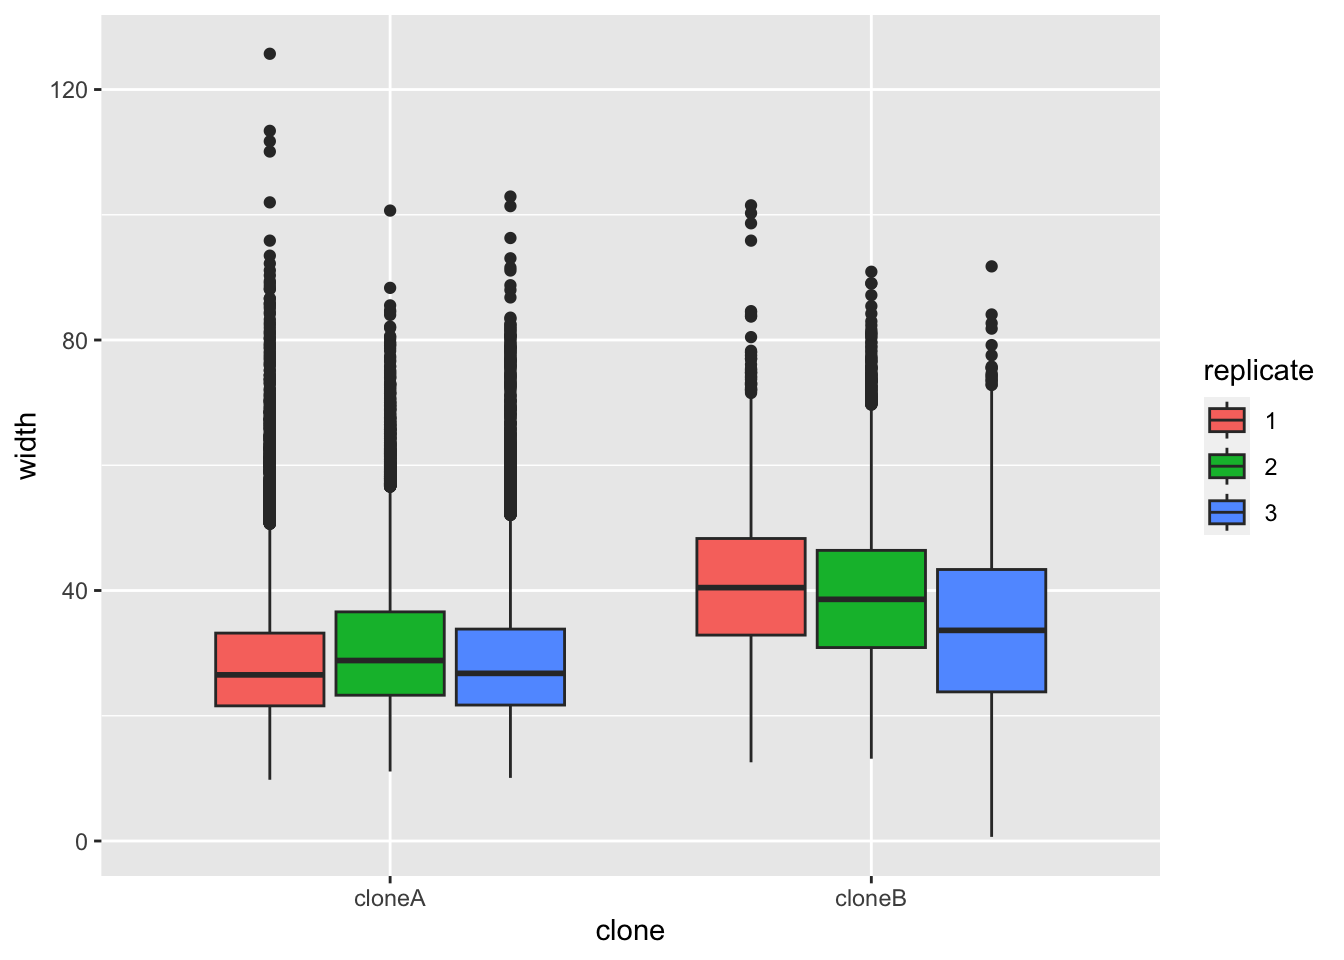
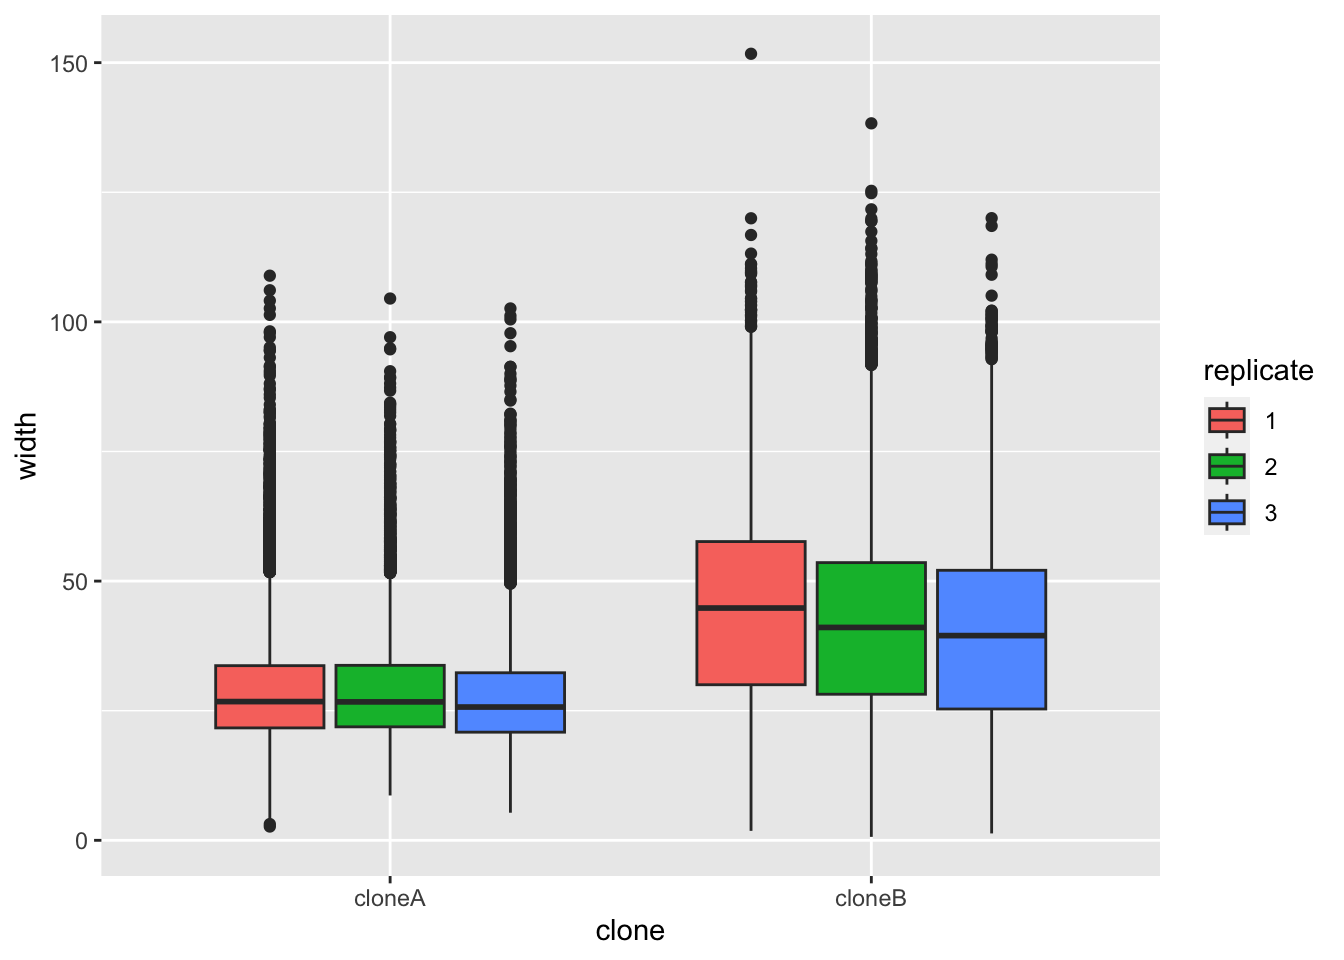
fix of index and w2

diff --git a/docs/workshop2.html b/docs/workshop2.html
@@ -6,7 +6,7 @@
 <meta name="viewport" content="width=device-width, initial-scale=1.0, user-scalable=yes">
 <meta name="author" content="Daniel Jeffares">
 <meta name="dcterms.date" content="2024-01-25">
-<title>BIO00066I - BIO00087H Workshop 1</title>
+<title>BIO00066I - BIO00066I Workshop 2</title>
 <style>
 code{white-space: pre-wrap;}
 span.smallcaps{font-variant: small-caps;}
@@ -180,7 +180,7 @@ pre > code.sourceCode > span > a:first-child::before { text-decoration: underlin
     </div>
 <!-- main -->
 <main class="content" id="quarto-document-content"><header id="title-block-header" class="quarto-title-block default"><div class="quarto-title">
-<h1 class="title">BIO00087H Workshop 1</h1>
+<h1 class="title">BIO00066I Workshop 2</h1>
 <p class="subtitle lead">Cell Biology Data Analysis Workshop 2</p>
 </div>
 
@@ -364,7 +364,7 @@ Develop your R script, carefully.
 <span class="header-section-number">3.2</span> Loading the data</h2>
 <p>In workshop 1, we showed you how to <a href="https://3mmarand.github.io/R4BABS/r4babs1/week-8/workshop.html#importing-data-from-files">import data from files</a>. Today, we load a tab-separated value (TSV) file from a website:</p>
 <div class="cell">
-<div class="sourceCode" id="cb4"><pre class="downlit sourceCode r code-with-copy"><code class="sourceCode R"><span><span class="va">cells</span> <span class="op">&lt;-</span><span class="fu"><a href="https://readr.tidyverse.org/reference/read_delim.html">read_tsv</a></span><span class="op">(</span><span class="fu"><a href="https://rdrr.io/r/base/connections.html">url</a></span><span class="op">(</span><span class="st">"https://djeffares.github.io/BIO66I/all-cell-data-FFT.filtered.2024-01-19.tsv"</span><span class="op">)</span>,</span>
+<div class="sourceCode" id="cb4"><pre class="downlit sourceCode r code-with-copy"><code class="sourceCode R"><span><span class="va">cells</span> <span class="op">&lt;-</span><span class="fu"><a href="https://readr.tidyverse.org/reference/read_delim.html">read_tsv</a></span><span class="op">(</span><span class="fu"><a href="https://rdrr.io/r/base/connections.html">url</a></span><span class="op">(</span><span class="st">"https://djeffares.github.io/BIO66I/all-cell-data-FFT.filtered.2024-02-22.tsv"</span><span class="op">)</span>,</span>
 <span>    col_types <span class="op">=</span> <span class="fu"><a href="https://readr.tidyverse.org/reference/cols.html">cols</a></span><span class="op">(</span></span>
 <span>        clone <span class="op">=</span> <span class="fu"><a href="https://readr.tidyverse.org/reference/parse_factor.html">col_factor</a></span><span class="op">(</span><span class="op">)</span>,</span>
 <span>        replicate <span class="op">=</span> <span class="fu"><a href="https://readr.tidyverse.org/reference/parse_factor.html">col_factor</a></span><span class="op">(</span><span class="op">)</span>,</span>
@@ -484,7 +484,6 @@ dplyr is wonderful
 <span>        sphericity<span class="op">=</span><span class="fu"><a href="https://rdrr.io/r/stats/median.html">median</a></span><span class="op">(</span><span class="va">sphericity</span><span class="op">)</span>,</span>
 <span>        length<span class="op">=</span><span class="fu"><a href="https://rdrr.io/r/stats/median.html">median</a></span><span class="op">(</span><span class="va">length</span><span class="op">)</span>,</span>
 <span>        dry.mass<span class="op">=</span><span class="fu"><a href="https://rdrr.io/r/stats/median.html">median</a></span><span class="op">(</span><span class="va">dry.mass</span><span class="op">)</span>,</span>
-<span>        perimeter<span class="op">=</span><span class="fu"><a href="https://rdrr.io/r/stats/median.html">median</a></span><span class="op">(</span><span class="va">perimeter</span><span class="op">)</span>,</span>
 <span>        length.to.width<span class="op">=</span><span class="fu"><a href="https://rdrr.io/r/stats/median.html">median</a></span><span class="op">(</span><span class="va">length.to.width</span><span class="op">)</span></span>
 <span><span class="op">)</span></span></code><button title="Copy to Clipboard" class="code-copy-button"><i class="bi"></i></button></pre></div>
 </div>
@@ -570,7 +569,7 @@ Making plots with ggplot
     Wilcoxon rank sum test with continuity correction
 
 data:  width by clone
-W = 562074424, p-value &lt; 2.2e-16
+W = 657964994, p-value &lt; 2.2e-16
 alternative hypothesis: true location shift is not equal to 0</code></pre>
 </div>
 </div>
@@ -694,7 +693,7 @@ alternative hypothesis: true location shift is not equal to 0</code></pre>
     Wilcoxon rank sum test with continuity correction
 
 data:  width by clone
-W = 562074424, p-value &lt; 2.2e-16
+W = 657964994, p-value &lt; 2.2e-16
 alternative hypothesis: true location shift is not equal to 0</code></pre>
 </div>
 </div>
@@ -791,7 +790,6 @@ P-values can be misleading
 <span>        length<span class="op">=</span><span class="fu"><a href="https://rdrr.io/r/stats/median.html">median</a></span><span class="op">(</span><span class="va">length</span><span class="op">)</span>,</span>
 <span>        width<span class="op">=</span><span class="fu"><a href="https://rdrr.io/r/stats/median.html">median</a></span><span class="op">(</span><span class="va">width</span><span class="op">)</span>,</span>
 <span>        dry.mass<span class="op">=</span><span class="fu"><a href="https://rdrr.io/r/stats/median.html">median</a></span><span class="op">(</span><span class="va">dry.mass</span><span class="op">)</span>,</span>
-<span>        perimeter<span class="op">=</span><span class="fu"><a href="https://rdrr.io/r/stats/median.html">median</a></span><span class="op">(</span><span class="va">perimeter</span><span class="op">)</span>,</span>
 <span>        length.to.width<span class="op">=</span><span class="fu"><a href="https://rdrr.io/r/stats/median.html">median</a></span><span class="op">(</span><span class="va">length.to.width</span><span class="op">)</span></span>
 <span>    <span class="op">)</span></span></code><button title="Copy to Clipboard" class="code-copy-button"><i class="bi"></i></button></pre></div>
 <div class="cell-output cell-output-stderr">

diff --git a/docs/workshop3.html b/docs/workshop3.html
@@ -351,10 +351,10 @@ Sometimes, asking a good question is the most important step!
 </div>
 </section><section id="automated-livecyte-cell-movment-data" class="level2" data-number="3.2"><h2 data-number="3.2" class="anchored" data-anchor-id="automated-livecyte-cell-movment-data">
 <span class="header-section-number">3.2</span> Automated Livecyte cell movment data</h2>
-<p>Now read in the data from the file <strong>all-cell-data-FFT.filtered.2024-01-19.tsv</strong>. This contains some cell movment data.</p>
+<p>Now read in the data from the file <strong>all-cell-data-FFT.filtered.2024-02-22.tsv</strong>. This contains some cell movment data.</p>
 <div class="cell">
 <div class="sourceCode" id="cb3"><pre class="downlit sourceCode r code-with-copy"><code class="sourceCode R"><span><span class="co"># Read the automated Livecyte data</span></span>
-<span><span class="va">cells</span> <span class="op">&lt;-</span><span class="fu"><a href="https://readr.tidyverse.org/reference/read_delim.html">read_tsv</a></span><span class="op">(</span><span class="fu"><a href="https://rdrr.io/r/base/connections.html">url</a></span><span class="op">(</span><span class="st">"https://djeffares.github.io/BIO66I/all-cell-data-FFT.filtered.2024-01-19.tsv"</span><span class="op">)</span>,</span>
+<span><span class="va">cells</span> <span class="op">&lt;-</span><span class="fu"><a href="https://readr.tidyverse.org/reference/read_delim.html">read_tsv</a></span><span class="op">(</span><span class="fu"><a href="https://rdrr.io/r/base/connections.html">url</a></span><span class="op">(</span><span class="st">"https://djeffares.github.io/BIO66I/all-cell-data-FFT.filtered.2024-02-22.tsv"</span><span class="op">)</span>,</span>
 <span>                 col_types <span class="op">=</span> <span class="fu"><a href="https://readr.tidyverse.org/reference/cols.html">cols</a></span><span class="op">(</span></span>
 <span>                   clone <span class="op">=</span> <span class="fu"><a href="https://readr.tidyverse.org/reference/parse_factor.html">col_factor</a></span><span class="op">(</span><span class="op">)</span>,</span>
 <span>                   replicate <span class="op">=</span> <span class="fu"><a href="https://readr.tidyverse.org/reference/parse_factor.html">col_factor</a></span><span class="op">(</span><span class="op">)</span>,</span>
@@ -395,8 +395,7 @@ Keep it simple
 [17] "orientation"              "dry.mass"                
 [19] "displacement"             "instantaneous.velocity"  
 [21] "instantaneous.velocity.x" "instantaneous.velocity.y"
-[23] "track.length"             "perimeter"               
-[25] "length.to.width"         </code></pre>
+[23] "track.length"             "length.to.width"         </code></pre>
 </div>
 <div class="sourceCode" id="cb7"><pre class="downlit sourceCode r code-with-copy"><code class="sourceCode R"><span><span class="co">#select only the columns we need</span></span>
 <span><span class="va">cell.move.data</span> <span class="op">&lt;-</span> <span class="fu"><a href="https://dplyr.tidyverse.org/reference/select.html">select</a></span><span class="op">(</span><span class="va">cells</span>,</span>
@@ -416,29 +415,31 @@ Keep it simple
 <span><span class="fu"><a href="https://rdrr.io/r/base/summary.html">summary</a></span><span class="op">(</span><span class="va">cell.move.data</span><span class="op">)</span></span></code><button title="Copy to Clipboard" class="code-copy-button"><i class="bi"></i></button></pre></div>
 <div class="cell-output cell-output-stdout">
 <pre><code>    clone       replicate  displacement     track.length   
- cloneA:55555   1:30373   Min.   :  0.00   Min.   :  0.00  
- cloneB:36330   2:36393   1st Qu.:  4.72   1st Qu.: 10.80  
-                3:25119   Median : 22.17   Median : 46.59  
-                          Mean   : 46.42   Mean   : 91.31  
-                          3rd Qu.: 62.35   3rd Qu.:126.91  
-                          Max.   :487.55   Max.   :984.29  
+ cloneA:38825   1:30471   Min.   :  0.00   Min.   :  0.00  
+ cloneB:62217   2:44617   1st Qu.:  3.98   1st Qu.: 11.23  
+                3:25954   Median : 24.15   Median : 56.02  
+                          Mean   : 47.78   Mean   :102.69  
+                          3rd Qu.: 67.22   3rd Qu.:149.83  
+                          Max.   :514.09   Max.   :960.74  
+                                                           
  instantaneous.velocity
- Min.   :0.0000000     
- 1st Qu.:0.0008046     
- Median :0.0025395     
- Mean   :0.0035334     
- 3rd Qu.:0.0050956     
- Max.   :0.0448467     </code></pre>
+ Min.   :0.000         
+ 1st Qu.:0.001         
+ Median :0.003         
+ Mean   :0.004         
+ 3rd Qu.:0.005         
+ Max.   :0.060         
+ NA's   :15314         </code></pre>
 </div>
 <div class="sourceCode" id="cb11"><pre class="downlit sourceCode r code-with-copy"><code class="sourceCode R"><span><span class="fu"><a href="https://pillar.r-lib.org/reference/glimpse.html">glimpse</a></span><span class="op">(</span><span class="va">cell.move.data</span><span class="op">)</span></span></code><button title="Copy to Clipboard" class="code-copy-button"><i class="bi"></i></button></pre></div>
 <div class="cell-output cell-output-stdout">
-<pre><code>Rows: 91,885
+<pre><code>Rows: 101,042
 Columns: 5
 $ clone                  &lt;fct&gt; cloneA, cloneA, cloneA, cloneA, cloneA, cloneA,…
 $ replicate              &lt;fct&gt; 1, 1, 1, 1, 1, 1, 1, 1, 1, 1, 1, 1, 1, 1, 1, 1,…
-$ displacement           &lt;dbl&gt; 0.00, 14.96, 0.00, 10.92, 12.93, 14.13, 13.13, …
-$ track.length           &lt;dbl&gt; 0.00, 14.96, 0.00, 10.92, 15.74, 21.72, 26.23, …
-$ instantaneous.velocity &lt;dbl&gt; 0.000000000, 0.010829316, 0.000000000, 0.003954…</code></pre>
+$ displacement           &lt;dbl&gt; 0.000000, 1.617625, 2.247724, 4.052623, 0.00000…
+$ track.length           &lt;dbl&gt; 0.000000, 1.617625, 5.118308, 6.950720, 0.00000…
+$ instantaneous.velocity &lt;dbl&gt; NA, 0.0011713431, 0.0025367271, 0.0013278343, N…</code></pre>
 </div>
 </div>
 <p>Now save your working data:</p>

diff --git a/docs/index.html b/docs/index.html
@@ -7,9 +7,9 @@
 <meta name="viewport" content="width=device-width, initial-scale=1.0, user-scalable=yes">
 
 <meta name="author" content="Daniel Jeffares">
-<meta name="dcterms.date" content="2024-02-21">
+<meta name="dcterms.date" content="2024-02-22">
 
-<title>BIO00066I - BIO00087H</title>
+<title>BIO00066I</title>
 <style>
 code{white-space: pre-wrap;}
 span.smallcaps{font-variant: small-caps;}
@@ -121,8 +121,8 @@ ul.task-list li input[type="checkbox"] {
 
 <header id="title-block-header" class="quarto-title-block default">
 <div class="quarto-title">
-<h1 class="title">BIO00087H</h1>
-<p class="subtitle lead">Genomics</p>
+<h1 class="title">BIO00066I</h1>
+<p class="subtitle lead">Becoming a Bioscientist: Research in Action</p>
 </div>
 
 
@@ -139,7 +139,7 @@ ul.task-list li input[type="checkbox"] {
     <div>
     <div class="quarto-title-meta-heading">Published</div>
     <div class="quarto-title-meta-contents">
-      <p class="date">February 21, 2024</p>
+      <p class="date">February 22, 2024</p>
     </div>
   </div>
   
@@ -151,8 +151,8 @@ ul.task-list li input[type="checkbox"] {
 </header>
 
 
-<p>Genomics has become one fundamental component of biological science. It is used in biomedicine, ecology, industrial microbiology, cell biology and evolutionary genetics. This is a relatively new discipline, that uses its own computational methods and concepts. This module teaches the current state of the art in genomic science and genome data analysis. Topics include genome biology in the tree of life, genome function, evolutionary concepts, collaborative projects and databases and ethics. This module will explain current DNA/RNA sequencing technologies, genome assembly, annotation and interpretation of genomic data. Workshops will provide an opportunity to develop skills and awareness of a variety of data analysis methods.</p>
-<p>The module summary is <a href="https://www.york.ac.uk/students/studying/manage/programmes/module-catalogue/module/BIO00087H/latest">here</a></p>
+<p>This page is to contain the workshops for BIO00066I, Becoming a Bioscientist: Research in Action.</p>
+<p>The module summary is <a href="https://www.york.ac.uk/students/studying/manage/programmes/module-catalogue/module/BIO00066I/latest">here</a></p>
 
 
 
